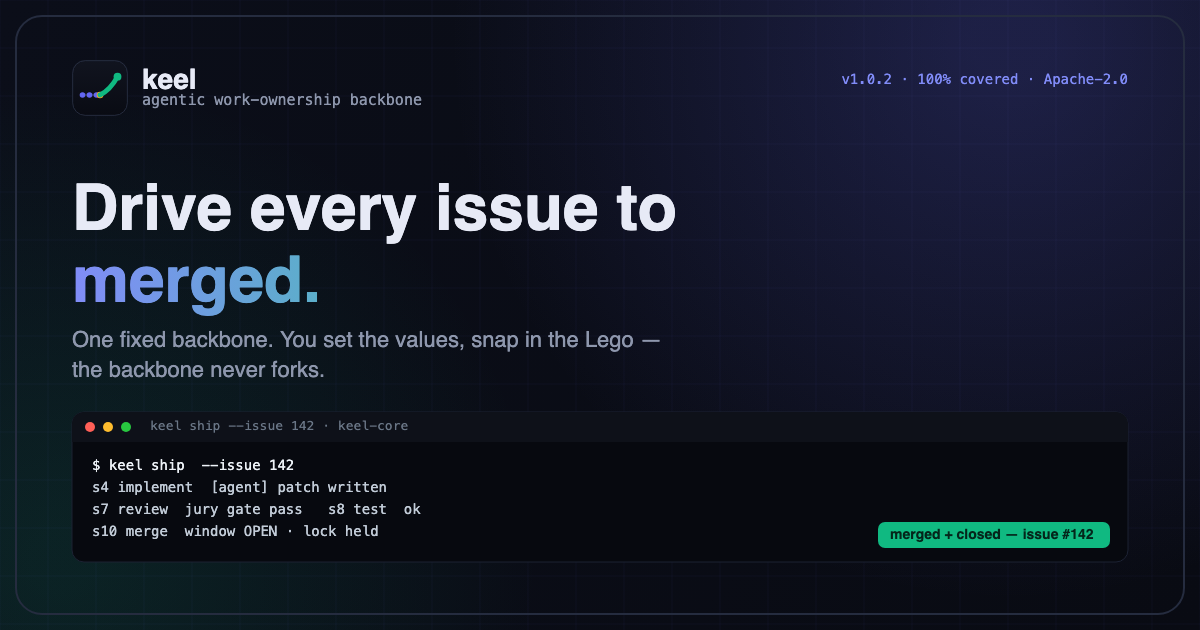
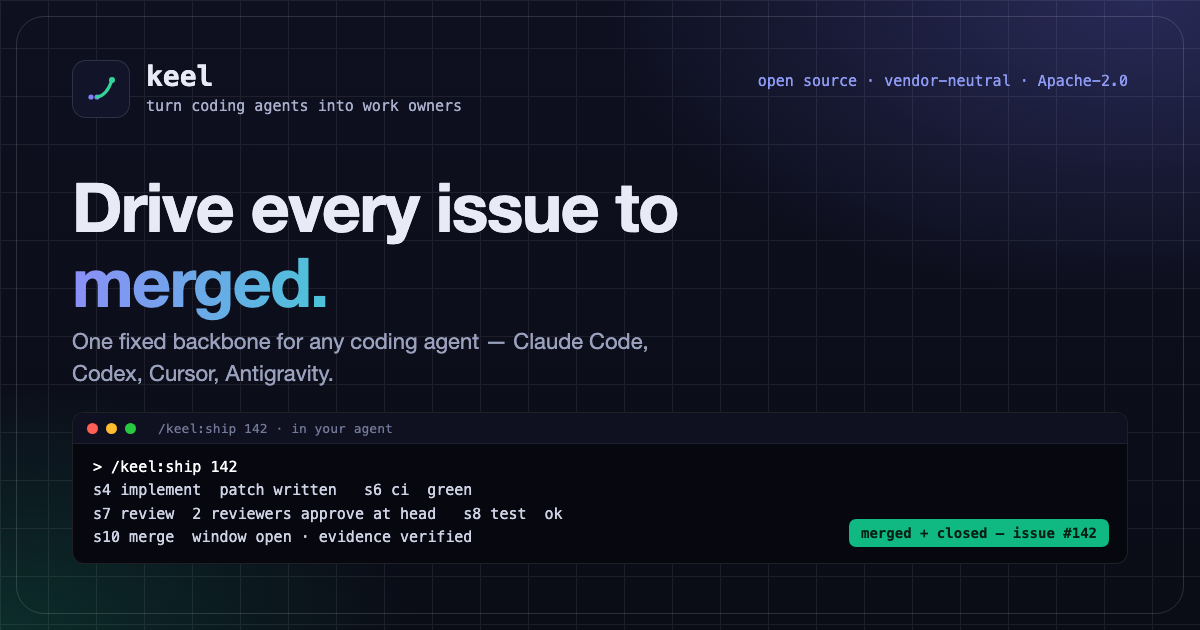
docs(site): the social card names the agent, not a version; alt text describes it (#1335)
The og banner said v1.0.2 and showed the CLI `keel ship --issue 142` merging,
which the CLI never does. It is rebuilt from docs/assets/og-banner.html (the
PNG had no source): no version, the four hosts, `/keel:ship 142` in the agent.
The og/twitter image alt text on index, docs and coverage now describes that
image instead of restating hero numbers it no longer shows, so the three
command-count anchors that lived in the alt text are dropped from the claims
registry; the counts are still pinned in each page's body.

diff --git a/docs/assets/og-banner.html b/docs/assets/og-banner.html
@@ -1,0 +1,50 @@
+<!doctype html>
+<html><head><meta charset="utf-8"><title>og-banner</title>
+<style>
+  html,body{margin:0;padding:0;width:1200px;height:630px;overflow:hidden;background:#0b0d17}
+  body{font-family:-apple-system,"SF Pro Display","Helvetica Neue",Arial,sans-serif;color:#e8eaf6}
+  .mono{font-family:"SF Mono",Menlo,Monaco,monospace}
+  .bg{position:absolute;inset:0;
+      background:
+        radial-gradient(900px 500px at 95% 0%, rgba(88,90,190,.35), transparent 60%),
+        radial-gradient(700px 420px at 0% 100%, rgba(16,120,90,.30), transparent 60%),
+        linear-gradient(180deg,#0e1020,#0a0c16);}
+  .grid{position:absolute;inset:0;opacity:.07;
+      background-image:linear-gradient(#fff 1px,transparent 1px),linear-gradient(90deg,#fff 1px,transparent 1px);
+      background-size:48px 48px}
+  .card{position:absolute;left:16px;top:16px;right:16px;bottom:16px;border:1px solid rgba(255,255,255,.14);border-radius:28px}
+  .brand{position:absolute;left:72px;top:60px;display:flex;align-items:center;gap:16px}
+  .logo{width:56px;height:56px;border-radius:14px;background:#12152a;border:1px solid rgba(255,255,255,.12);display:flex;align-items:center;justify-content:center}
+  .name{font-size:28px;font-weight:700;line-height:1}
+  .sub{font-size:15px;color:#aab0cc;margin-top:6px}
+  .meta{position:absolute;right:72px;top:72px;font-size:15px;color:#8f9cf5}
+  h1{position:absolute;left:72px;top:170px;margin:0;font-size:68px;line-height:1.1;font-weight:800;letter-spacing:-1.5px}
+  .grad{background:linear-gradient(90deg,#8b8ff7,#4cc3d9);-webkit-background-clip:text;background-clip:text;color:transparent}
+  .lede{position:absolute;left:72px;top:326px;font-size:22px;line-height:1.45;color:#9aa1bd;width:640px}
+  .term{position:absolute;left:72px;right:72px;top:412px;height:150px;border-radius:12px;background:#07080f;border:1px solid rgba(255,255,255,.10);overflow:hidden}
+  .bar{height:30px;display:flex;align-items:center;gap:8px;padding:0 14px;background:#0f1120;border-bottom:1px solid rgba(255,255,255,.07)}
+  .dot{width:11px;height:11px;border-radius:50%}
+  .bar span.t{margin-left:14px;font-size:13px;color:#737a99}
+  .lines{padding:12px 20px;font-size:15px;line-height:1.55;color:#cfd3e6;white-space:pre}
+  .p{color:#fff}
+  .ok{color:#34d399}
+  .pill{position:absolute;right:18px;bottom:16px;background:#10b981;color:#062016;font-weight:700;font-size:14px;padding:6px 12px;border-radius:7px}
+</style></head>
+<body>
+  <div class="bg"></div><div class="grid"></div><div class="card"></div>
+  <div class="brand">
+    <div class="logo"><svg width="36" height="36" viewBox="0 0 36 36"><circle cx="8" cy="26" r="2.6" fill="#7c83f4"/><circle cx="14" cy="26" r="2.6" fill="#7c83f4"/><path d="M14 26 C 22 25, 26 18, 29 9" stroke="#34d399" stroke-width="3.2" fill="none" stroke-linecap="round"/><circle cx="29" cy="9" r="3" fill="#34d399"/></svg></div>
+    <div><div class="name mono">keel</div><div class="sub mono">turn coding agents into work owners</div></div>
+  </div>
+  <div class="meta mono">open source · vendor-neutral · Apache-2.0</div>
+  <h1>Drive every issue to<br><span class="grad">merged.</span></h1>
+  <div class="lede">One fixed backbone for any coding agent — Claude Code, Codex, Cursor, Antigravity.</div>
+  <div class="term mono">
+    <div class="bar"><div class="dot" style="background:#ff5f57"></div><div class="dot" style="background:#febc2e"></div><div class="dot" style="background:#28c840"></div><span class="t">/keel:ship 142 · in your agent</span></div>
+    <div class="lines"><span class="p">&gt; /keel:ship 142</span>
+s4 implement  patch written   s6 ci  green
+s7 review  2 reviewers approve at head   s8 test  ok
+s10 merge  window open · evidence verified</div>
+    <div class="pill">merged + closed — issue #142</div>
+  </div>
+</body></html>

diff --git a/website/index.html b/website/index.html
@@ -42,14 +42,14 @@
 <meta property="og:title" content="keel — turn coding agents into work owners: issue to merged PR">
 <meta property="og:description" content="Open-source AI code review and pull request automation. One fixed backbone takes a GitHub issue from intake to merged — multi-agent review, CI gates, merge evidence. Claude Code, Codex, Cursor, Antigravity.">
 <meta property="og:image" content="https://keel-ship.dev/assets/og-banner.png">
-<meta property="og:image:alt" content="keel — drive every issue to merged on one fixed backbone: 13 steps, 28 extension slots, 17 /keel commands, 100% covered.">
+<meta property="og:image:alt" content="keel — drive every issue to merged: one fixed backbone for any coding agent (Claude Code, Codex, Cursor, Antigravity). A terminal shows /keel:ship 142 ending in merged and closed.">
 <meta property="og:image:width" content="1200">
 <meta property="og:image:height" content="630">
 <meta name="twitter:card" content="summary_large_image">
 <meta name="twitter:title" content="keel — turn coding agents into work owners: issue to merged PR">
 <meta name="twitter:description" content="Automate PR review and merge with AI coding agents — multi-agent review, CI gates, merge evidence. Open-source Python CLI + GitHub Action.">
 <meta name="twitter:image" content="https://keel-ship.dev/assets/og-banner.png">
-<meta name="twitter:image:alt" content="keel — drive every issue to merged on one fixed backbone: 13 steps, 28 extension slots, 17 /keel commands, 100% covered.">
+<meta name="twitter:image:alt" content="keel — drive every issue to merged: one fixed backbone for any coding agent (Claude Code, Codex, Cursor, Antigravity). A terminal shows /keel:ship 142 ending in merged and closed.">
 
 <script type="application/ld+json">
 {

diff --git a/website/docs.html b/website/docs.html
@@ -24,14 +24,14 @@
 <meta property="og:title" content="Documentation — keel">
 <meta property="og:description" content="The 13-step backbone, all 17 /keel commands, the CLI, project.yaml configuration, extensions and dogfooding.">
 <meta property="og:image" content="https://keel-ship.dev/assets/og-banner.png">
-<meta property="og:image:alt" content="keel — drive every issue to merged on one fixed backbone: 13 steps, 28 extension slots, 17 /keel commands, 100% covered.">
+<meta property="og:image:alt" content="keel — drive every issue to merged: one fixed backbone for any coding agent (Claude Code, Codex, Cursor, Antigravity). A terminal shows /keel:ship 142 ending in merged and closed.">
 <meta property="og:url" content="https://keel-ship.dev/docs.html">
 <meta property="og:site_name" content="keel">
 <meta name="twitter:card" content="summary_large_image">
 <meta name="twitter:title" content="Documentation — keel">
 <meta name="twitter:description" content="The 13-step backbone, all 17 /keel commands, the CLI, project.yaml configuration, extensions and dogfooding.">
 <meta name="twitter:image" content="https://keel-ship.dev/assets/og-banner.png">
-<meta name="twitter:image:alt" content="keel — drive every issue to merged on one fixed backbone: 13 steps, 28 extension slots, 17 /keel commands, 100% covered.">
+<meta name="twitter:image:alt" content="keel — drive every issue to merged: one fixed backbone for any coding agent (Claude Code, Codex, Cursor, Antigravity). A terminal shows /keel:ship 142 ending in merged and closed.">
 <link rel="stylesheet" href="styles.css">
 <link rel="stylesheet" href="ui.css">
 <link rel="stylesheet" href="workspace.css">

diff --git a/website/coverage.html b/website/coverage.html
@@ -25,12 +25,12 @@
 <meta property="og:title" content="Test coverage — keel">
 <meta property="og:description" content="The pure core is held at 100% line + branch coverage — fail_under = 100 in CI.">
 <meta property="og:image" content="https://keel-ship.dev/assets/og-banner.png">
-<meta property="og:image:alt" content="keel — drive every issue to merged on one fixed backbone: 13 steps, 28 extension slots, 17 /keel commands, 100% covered.">
+<meta property="og:image:alt" content="keel — drive every issue to merged: one fixed backbone for any coding agent (Claude Code, Codex, Cursor, Antigravity). A terminal shows /keel:ship 142 ending in merged and closed.">
 <meta name="twitter:card" content="summary_large_image">
 <meta name="twitter:title" content="Test coverage — keel">
 <meta name="twitter:description" content="The pure core is held at 100% line + branch coverage — fail_under = 100 in CI.">
 <meta name="twitter:image" content="https://keel-ship.dev/assets/og-banner.png">
-<meta name="twitter:image:alt" content="keel — drive every issue to merged on one fixed backbone: 13 steps, 28 extension slots, 17 /keel commands, 100% covered.">
+<meta name="twitter:image:alt" content="keel — drive every issue to merged: one fixed backbone for any coding agent (Claude Code, Codex, Cursor, Antigravity). A terminal shows /keel:ship 142 ending in merged and closed.">
 <link rel="stylesheet" href="styles.css">
 <link rel="stylesheet" href="ui.css">
 <link rel="stylesheet" href="workspace.css">

diff --git a/tests/test_docs_claims.py b/tests/test_docs_claims.py
@@ -207,15 +207,12 @@ class TestTheStatedCommandCountIsReal(unittest.TestCase):
     _CLAIMS = (
         ("website/llms.txt", re.compile(r"> (\d+) `/keel` commands")),
         ("website/docs.html", re.compile(r"all (\d+) /keel commands")),
-        ("website/docs.html", re.compile(r"extension slots, (\d+) /keel commands")),
         ("website/docs.html", re.compile(r'Workflow commands <span class="badge">(\d+)</span>')),
-        ("website/index.html", re.compile(r"extension slots, (\d+) /keel commands")),
         ("website/index.html", re.compile(r'Workflow commands <span class="badge">(\d+)</span>')),
         ("website/index.html", re.compile(r"(\d+) /keel commands, stdlib-first")),
         ("website/index.html", re.compile(r"All (\d+) <code>/keel:")),
         ("website/index.html", re.compile(r"(\d+) workflows · /keel:")),
         ("website/index.html", re.compile(r"<b>(\d+)<span class=\"u\"> cmds</span>")),
-        ("website/coverage.html", re.compile(r"extension slots, (\d+) /keel commands")),
         (
             "website/coverage.html",
             re.compile(r'Workflow commands <span class="badge">(\d+)</span>'),
@@ -301,10 +298,10 @@ class TestTheEnumeratedCommandsAreTheShippedOnes(unittest.TestCase):
 class TestTheSiteStatesTheRealBackboneShape(unittest.TestCase):
     """`13 steps` and `28 extension slots` are printed in nine places across the site.
 
-    Both are hero numbers: they appear in `og:image:alt`, in `twitter:image:alt`, in the
-    README's hero and in the body copy, and every one of them is hand-typed. The command
-    count drifted exactly this way — 16 in five places, 17 in five others — and there is
-    no reason the other two are safer. `model.BACKBONE` and `model.SLOTS` are the answer.
+    Both are hero numbers: they appear in the README's hero and in the site's body copy
+    (the social-card alt text used to carry them too), and every one of them is
+    hand-typed. The command count drifted exactly this way — 16 in five places, 17 in
+    five others — and there is no reason the other two are safer. `model.BACKBONE` and `model.SLOTS` are the answer.
     """
 
     _PAGES = ("index.html", "docs.html", "coverage.html", "content.js")
